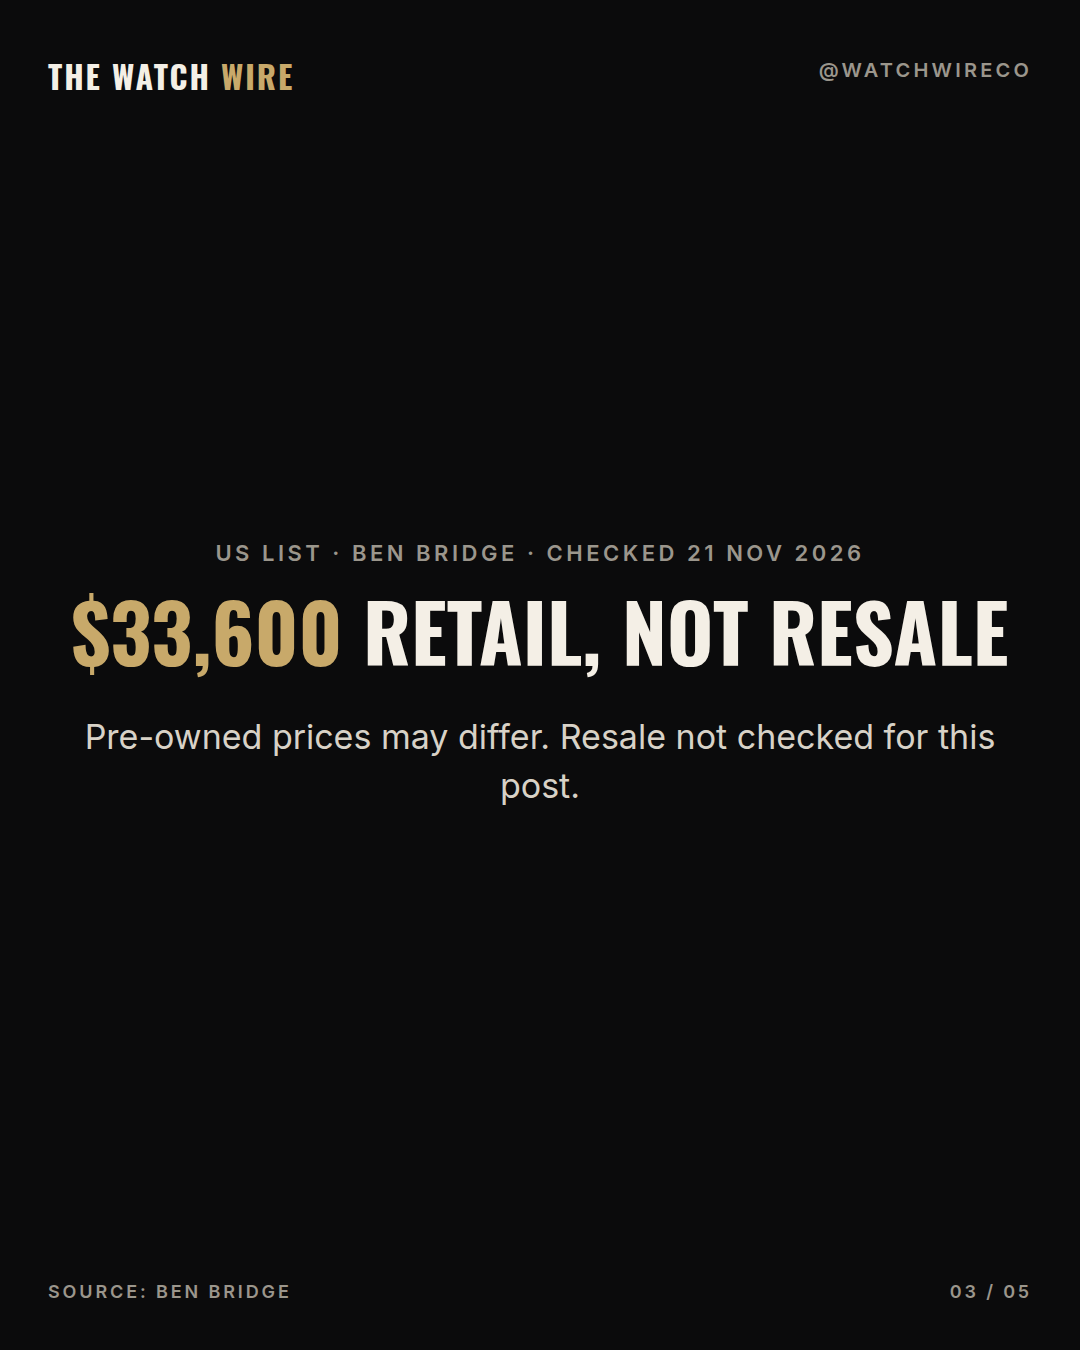
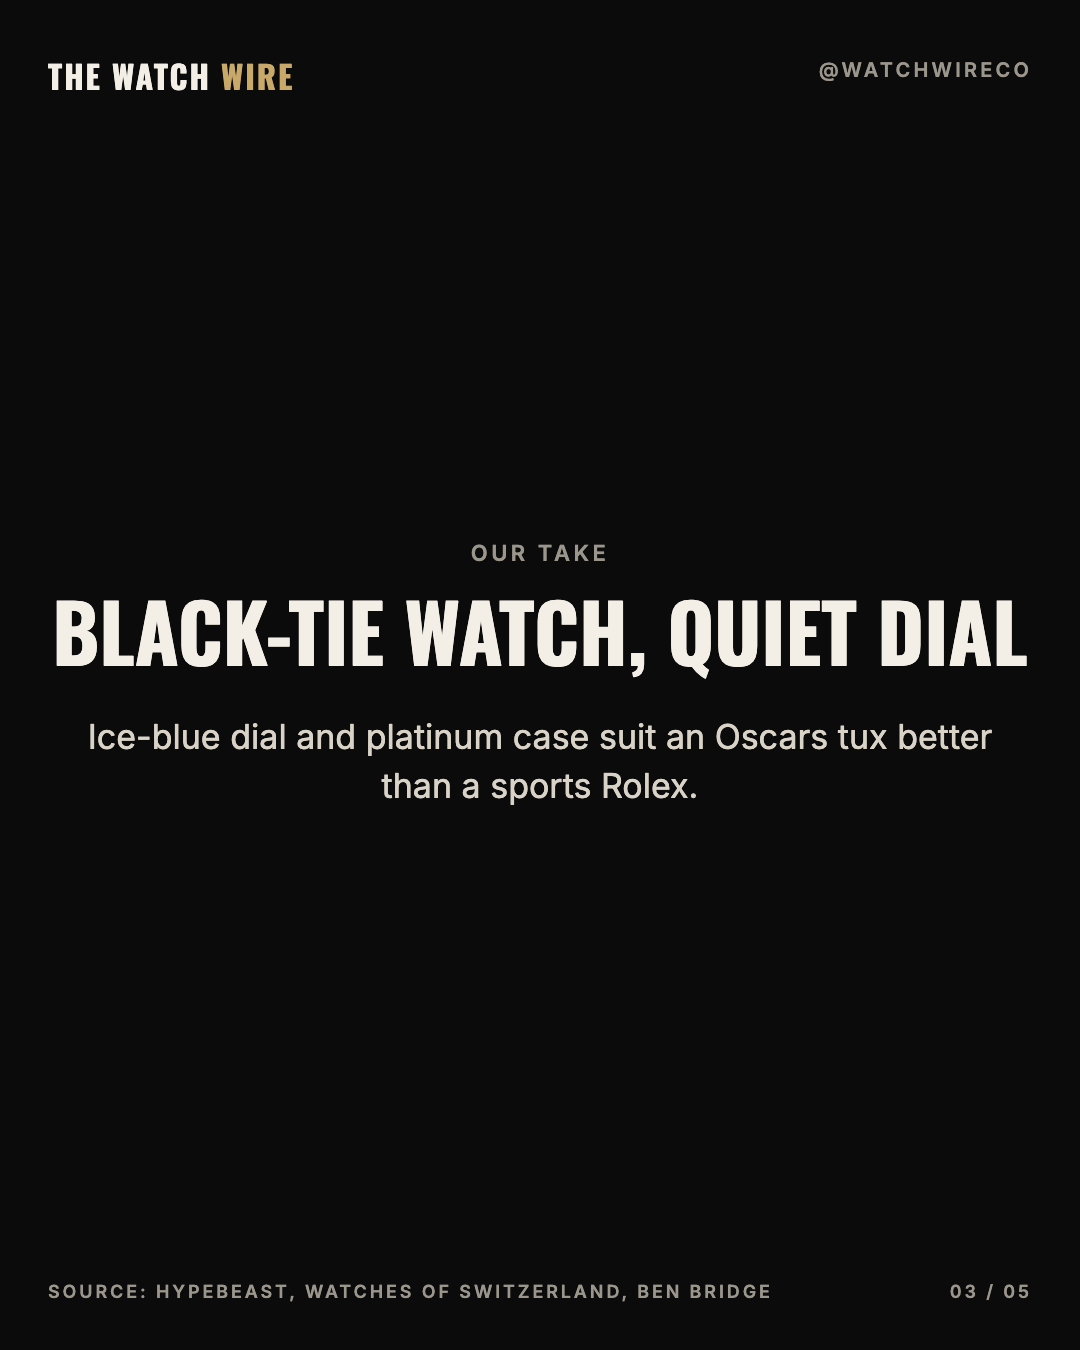
DiCaprio post: swap the resale slide for a Wear-it-or-pass vote; celebrity posts get a spotlight + your-call slide (owner)

diff --git a/.claude/agents/watch-wire-editor.md b/.claude/agents/watch-wire-editor.md
@@ -78,6 +78,9 @@ the watch. Not every slide needs a photo. Every photo via PH with `--project <P>
   celebrity or a trusted outlet named it; else "appears to be". No usable photo of that celebrity after two
   tries → drop them and pick ANOTHER celebrity sighting (sports, red carpets, music, film; there are many).
   Celebrity posts do best (owner): keep switching celebrities; stop only after five have failed.
+  Celebrity shape (owner, 2026-11-21): cover (person) → WATCH SPOTLIGHT slide (the watch, 2-3 specs, price)
+  → our take → a YOUR CALL slide that asks readers to act ("Wear it or pass? Comment WEAR or PASS") → cta.
+  Never a slide that only hedges ("resale not checked", "prices may differ"); put caveats in the caption.
 - Game or permitted outlets: sources in `watch-wire-engine/state/permissions.json` only, via
   `PH credited <article-url> --credit "<credit text>" --owner "<name>"` (images credited to that source alone).
 - Official media pages: `PH gallery <url> --owner "<Owner>" --slug <name>`, then read its sheet.png once.

diff --git a/watch-wire-engine/state/design-notes.md b/watch-wire-engine/state/design-notes.md
@@ -20,3 +20,4 @@ Add each new owner praise or critique here (dated, one line). Newest last.
 - 2026-11-20 Comparisons (WYR, X vs Y): put BOTH watches on the cover, side by side with a gold "or" (A-cover photo + photo2). Liked.
 - 2026-11-20 No "e.g." on slides or captions; write "Like this: 1B · 2A · 3C". Collection format: owner likes it a lot.
 - 2026-11-21 (engine, from the owner's 20 Nov rule) Watch product photos now have their plain studio background removed automatically (src/cutout.mjs) and sit on black; the cream panel behind single watch photos is gone.
+- 2026-11-21: Owner: a slide like "$33,600 retail, not resale / resale not checked" gives readers no reason to act. Celebrity posts use a Watch Spotlight slide and a "Your call: wear it or pass? Comment WEAR or PASS" slide; hedges go in the caption, never a slide of their own.
